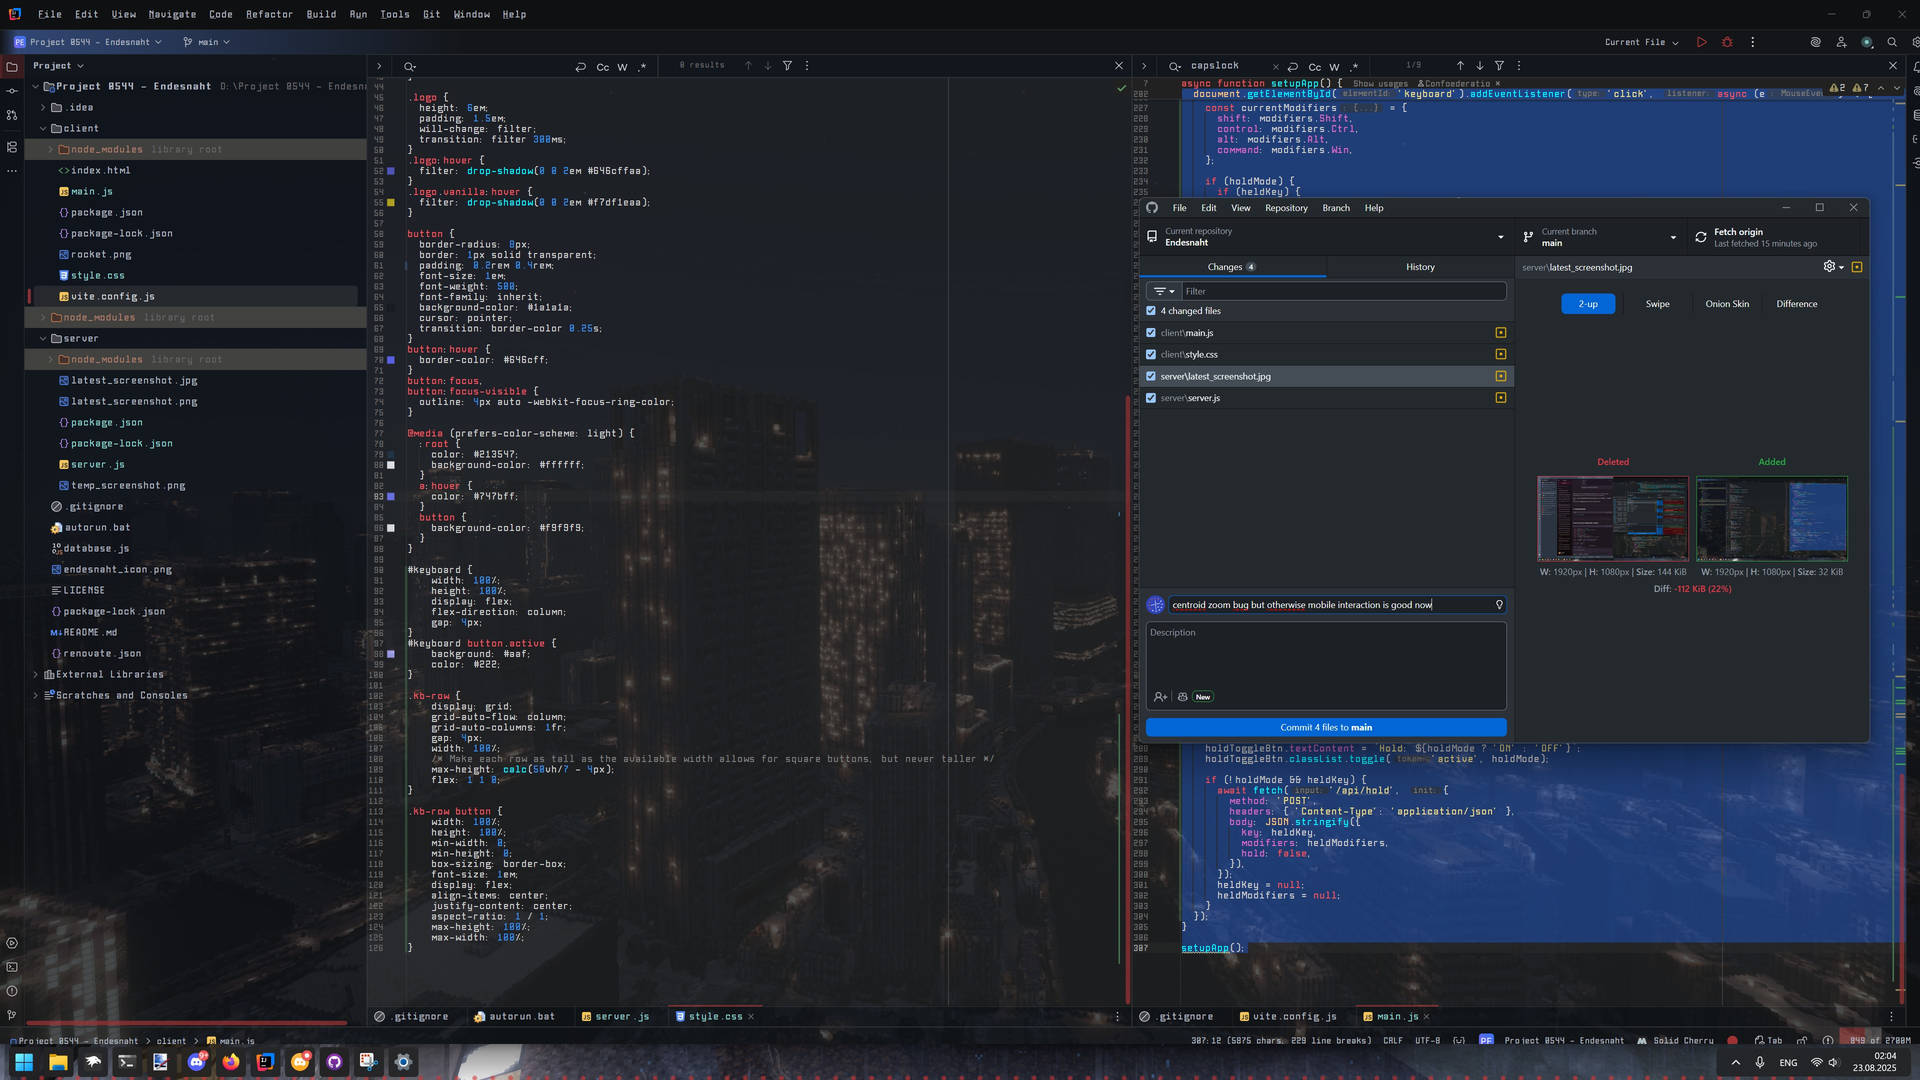
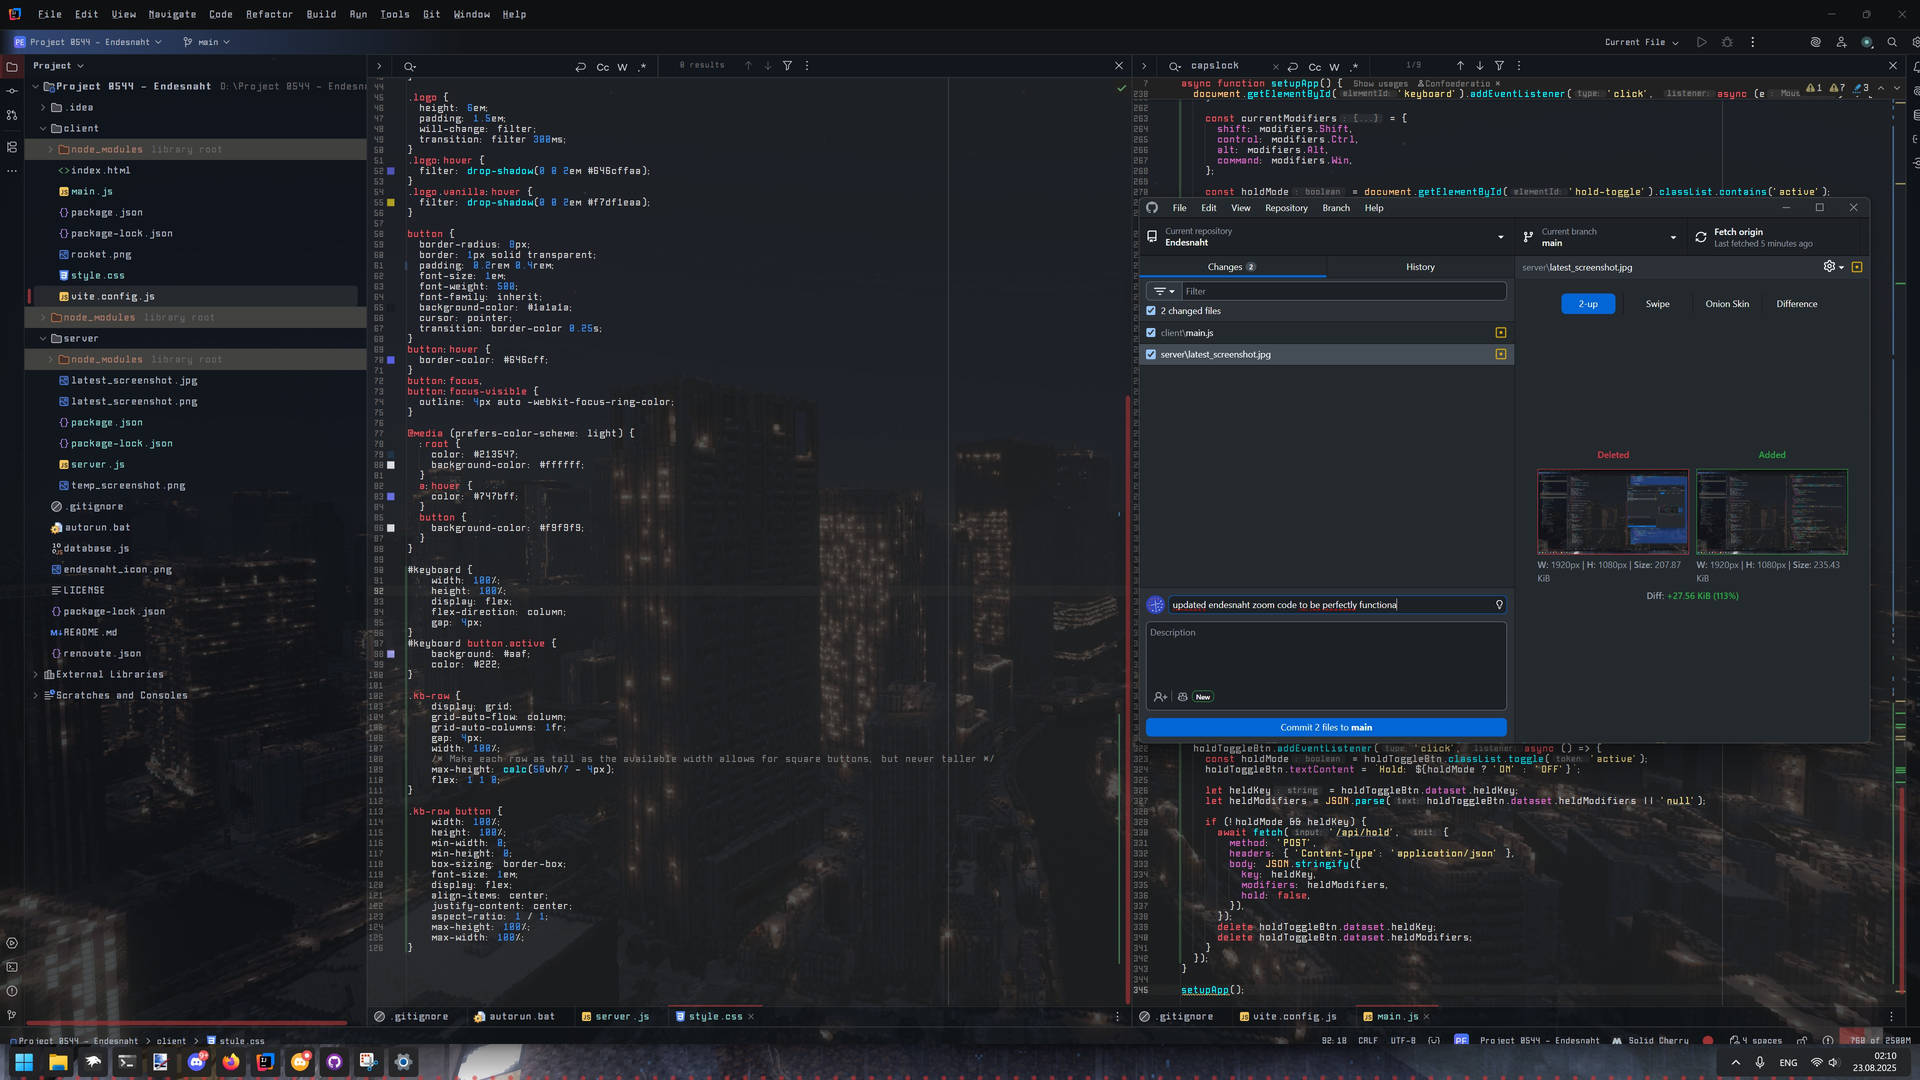
updated endesnaht zoom code to be perfectly functional

diff --git a/client/main.js b/client/main.js
@@ -9,7 +9,6 @@ async function setupApp() {
 		patchUrlMappings([{ prefix: '/api', target: 'endesnaht.net' }]);
 	}
 	
-	// Your HTML rendering code here...
 	document.querySelector('#app').innerHTML = `
         <div id="main-container" style="
             position: absolute; top: 0; left: 0; right: 0; bottom: 0;
@@ -17,37 +16,41 @@ async function setupApp() {
             background: #222;
         ">
             <div id="screenshot-container" style="
-                position: relative; overflow: hidden; touch-action: none;
-                flex: 1 1 0; /* Let this container grow and shrink */
-                min-height: 0; /* Prevents overflow in flex containers */
+                position: relative; /* Needed for absolute positioning of child */
+                overflow: hidden; touch-action: none;
+                flex: 1 1 0;
+                min-height: 0;
                 border-bottom: 1px solid #ccc;
-                display: flex; align-items: center; justify-content: center;
+                /* REMOVED: display: flex; align-items: center; justify-content: center; */
             ">
                 <div id="screenshot-transformer" style="
-                    /* This is the stable aspect-ratio box. It will never collapse. */
                     aspect-ratio: 1920 / 1080;
                     max-width: 100%;
                     max-height: 100%;
                     touch-action: none;
                     will-change: transform;
+                    /* ADDED for JS control */
+                    position: absolute;
+                    top: 0;
+                    left: 0;
                 ">
                     <img id="screenshot" alt="Server Screenshot" style="
                         width: 100%; height: 100%;
-                        display: block; /* Removes extra space below image */
+                        display: block;
                         user-select: none;
                         background: black;
                     " draggable="false" />
                 </div>
             </div>
             <div id="keyboard" style="
-                flex: 0 0 auto; /* Don't grow, size based on content */
+                flex: 0 0 auto;
                 display: flex; flex-direction: column;
                 justify-content: flex-start; align-items: stretch;
                 padding: 0.5em; box-sizing: border-box; overflow-y: auto;
                 background: #333;
-                max-height: 45vh; /* Max height to keep keys square-ish and viewable */
+                max-height: 45vh;
             ">
-                <!-- Keyboard HTML is now cleaner, relying on style.css -->
+                <!-- Keyboard HTML... -->
                 <div class="kb-row">
                     <button data-key="Esc">Esc</button> <button data-key="F1">F1</button> <button data-key="F2">F2</button> <button data-key="F3">F3</button> <button data-key="F4">F4</button> <button data-key="F5">F5</button> <button data-key="F6">F6</button> <button data-key="F7">F7</button> <button data-key="F8">F8</button> <button data-key="F9">F9</button> <button data-key="F10">F10</button> <button data-key="F11">F11</button> <button data-key="F12">F12</button>
                 </div>
@@ -66,11 +69,11 @@ async function setupApp() {
                 <div class="kb-row">
                     <button data-key="Ctrl" class="special-key">Ctrl</button> <button data-key="Win" class="special-key">Win</button> <button data-key="Alt" class="special-key">Alt</button> <button data-key="Space" class="space-btn" style="flex-grow: 6;">Space</button> <button data-key="Alt" class="special-key">Alt</button> <button data-key="Win" class="special-key">Win</button> <button data-key="Menu" class="special-key">Menu</button> <button data-key="Ctrl" class="special-key">Ctrl</button>
                 </div>
-            <button id="hold-toggle" style="
-                margin: 0.5em auto 0.5em auto; display: block; padding: 0.5em 1em;
-                font-size: 1.1em; border-radius: 6px; border: 1px solid #888;
-                background: #ddd; cursor: pointer; color: black
-            ">Hold: OFF</button>
+                <button id="hold-toggle" style="
+                    margin: 0.5em auto 0.5em auto; display: block; padding: 0.5em 1em;
+                    font-size: 1.1em; border-radius: 6px; border: 1px solid #888;
+                    background: #ddd; cursor: pointer; color: black
+                ">Hold: OFF</button>
             </div>
         </div>
     `;
@@ -85,28 +88,59 @@ async function setupApp() {
 	let scale = 1;
 	let panX = 0;
 	let panY = 0;
-	let startX = 0;
-	let startY = 0;
+	let isPinching = false;
+	let lastTap = 0;
+	
+	// Gesture-specific state
 	let startDist = 0;
 	let lastScale = 1;
-	let isPinching = false;
-	let lastTouchEnd = 0;
+	let pinchOriginX = 0;
+	let pinchOriginY = 0;
 	
 	function setTransform() {
-		screenshotTransformer.style.transform = `scale(${scale}) translate(${
-			panX / scale
-		}px, ${panY / scale}px)`;
+		// We position the element from its top-left corner.
+		// So we must set the transform-origin explicitly to 0 0.
+		screenshotTransformer.style.transformOrigin = '0 0';
+		screenshotTransformer.style.transform = `translate(${panX}px, ${panY}px) scale(${scale})`;
 	}
+	
+	// NEW: Function to center the content initially and on resize
+	function centerContent() {
+		const containerRect = screenshotContainer.getBoundingClientRect();
+		const transformerRect = screenshotTransformer.getBoundingClientRect();
+		
+		// The rect of the transformer will be scaled, so we need its unscaled dimensions
+		const unscaledWidth = transformerRect.width / scale;
+		const unscaledHeight = transformerRect.height / scale;
+		
+		panX = (containerRect.width - unscaledWidth) / 2;
+		panY = (containerRect.height - unscaledHeight) / 2;
+		
+		setTransform();
+	}
+	
+	// Initialize the position
+	centerContent();
+	// Optional but recommended: re-center if the window is resized
+	window.addEventListener('resize', centerContent);
+	
 	
 	screenshotContainer.addEventListener('touchstart', (e) => {
 		if (e.touches.length === 2) {
 			isPinching = true;
+			lastScale = scale;
+			
 			const dx = e.touches[0].clientX - e.touches[1].clientX;
 			const dy = e.touches[0].clientY - e.touches[1].clientY;
 			startDist = Math.hypot(dx, dy);
-			lastScale = scale;
-			startX = (e.touches[0].clientX + e.touches[1].clientX) / 2 - panX;
-			startY = (e.touches[0].clientY + e.touches[1].clientY) / 2 - panY;
+			
+			// Get finger midpoint relative to the viewport
+			const pinchClientX = (e.touches[0].clientX + e.touches[1].clientX) / 2;
+			const pinchClientY = (e.touches[0].clientY + e.touches[1].clientY) / 2;
+			
+			// Calculate the point on the UN-SCALED image under the fingers
+			pinchOriginX = (pinchClientX - panX) / lastScale;
+			pinchOriginY = (pinchClientY - panY) / lastScale;
 		}
 	});
 	
@@ -117,12 +151,17 @@ async function setupApp() {
 				const dx = e.touches[0].clientX - e.touches[1].clientX;
 				const dy = e.touches[0].clientY - e.touches[1].clientY;
 				const dist = Math.hypot(dx, dy);
-				scale = Math.max(1, Math.min(lastScale * (dist / startDist), 5));
 				
-				const centerX = (e.touches[0].clientX + e.touches[1].clientX) / 2;
-				const centerY = (e.touches[0].clientY + e.touches[1].clientY) / 2;
-				panX = centerX - startX;
-				panY = centerY - startY;
+				// Calculate scale and clamp it
+				scale = Math.max(1, Math.min(lastScale * (dist / startDist), 10));
+				
+				// Get the NEW finger midpoint
+				const pinchClientX = (e.touches[0].clientX + e.touches[1].clientX) / 2;
+				const pinchClientY = (e.touches[0].clientY + e.touches[1].clientY) / 2;
+				
+				// Calculate the new pan to keep the pinchOrigin under the new finger midpoint.
+				panX = pinchClientX - pinchOriginX * scale;
+				panY = pinchClientY - pinchOriginY * scale;
 				
 				setTransform();
 				e.preventDefault();
@@ -131,8 +170,6 @@ async function setupApp() {
 		{ passive: false }
 	);
 	
-	let lastTap = 0;
-	
 	screenshotContainer.addEventListener('touchend', (e) => {
 		if (e.touches.length < 2) {
 			isPinching = false;
@@ -140,15 +177,15 @@ async function setupApp() {
 		if (e.touches.length === 0) {
 			const now = Date.now();
 			if (now - lastTap < 300) {
-				// Double-tap detected
+				// Double-tap to reset
 				scale = 1;
-				panX = 0;
-				panY = 0;
-				setTransform();
+				centerContent(); // Use our centering function to reset
 			}
 			lastTap = now;
 		}
 	});
+	
+	// --- REST OF THE CODE IS UNCHANGED ---
 	
 	screenshotImage.addEventListener('dragstart', (e) => e.preventDefault());
 	
@@ -176,8 +213,6 @@ async function setupApp() {
 				screenshotImage.src = url;
 				screenshotImage.onload = () => {
 					URL.revokeObjectURL(url);
-					// NO MORE JAVASCRIPT STABILIZATION NEEDED!
-					// The CSS 'aspect-ratio' property handles everything.
 				};
 			}
 		} catch (err) {
@@ -189,6 +224,7 @@ async function setupApp() {
 	updateScreenshot();
 	
 	// --- Keyboard Logic ---
+	// ... (The entire keyboard logic remains exactly the same) ...
 	let modifiers = { Shift: false, Ctrl: false, Alt: false, Win: false };
 	let capsLock = false;
 	
@@ -231,6 +267,10 @@ async function setupApp() {
 			command: modifiers.Win,
 		};
 		
+		const holdMode = document.getElementById('hold-toggle').classList.contains('active');
+		let heldKey = document.getElementById('hold-toggle').dataset.heldKey;
+		let heldModifiers = JSON.parse(document.getElementById('hold-toggle').dataset.heldModifiers || 'null');
+		
 		if (holdMode) {
 			if (heldKey) {
 				await fetch('/api/hold', {
@@ -252,8 +292,8 @@ async function setupApp() {
 					hold: true,
 				}),
 			});
-			heldKey = key;
-			heldModifiers = currentModifiers;
+			document.getElementById('hold-toggle').dataset.heldKey = key;
+			document.getElementById('hold-toggle').dataset.heldModifiers = JSON.stringify(currentModifiers);
 			return;
 		}
 		
@@ -278,15 +318,13 @@ async function setupApp() {
 		});
 	});
 	
-	let holdMode = false;
-	let heldKey = null;
-	let heldModifiers = null;
-	
 	const holdToggleBtn = document.getElementById('hold-toggle');
 	holdToggleBtn.addEventListener('click', async () => {
-		holdMode = !holdMode;
+		const holdMode = holdToggleBtn.classList.toggle('active');
 		holdToggleBtn.textContent = `Hold: ${holdMode ? 'ON' : 'OFF'}`;
-		holdToggleBtn.classList.toggle('active', holdMode);
+		
+		let heldKey = holdToggleBtn.dataset.heldKey;
+		let heldModifiers = JSON.parse(holdToggleBtn.dataset.heldModifiers || 'null');
 		
 		if (!holdMode && heldKey) {
 			await fetch('/api/hold', {
@@ -298,8 +336,8 @@ async function setupApp() {
 					hold: false,
 				}),
 			});
-			heldKey = null;
-			heldModifiers = null;
+			delete holdToggleBtn.dataset.heldKey;
+			delete holdToggleBtn.dataset.heldModifiers;
 		}
 	});
 }
